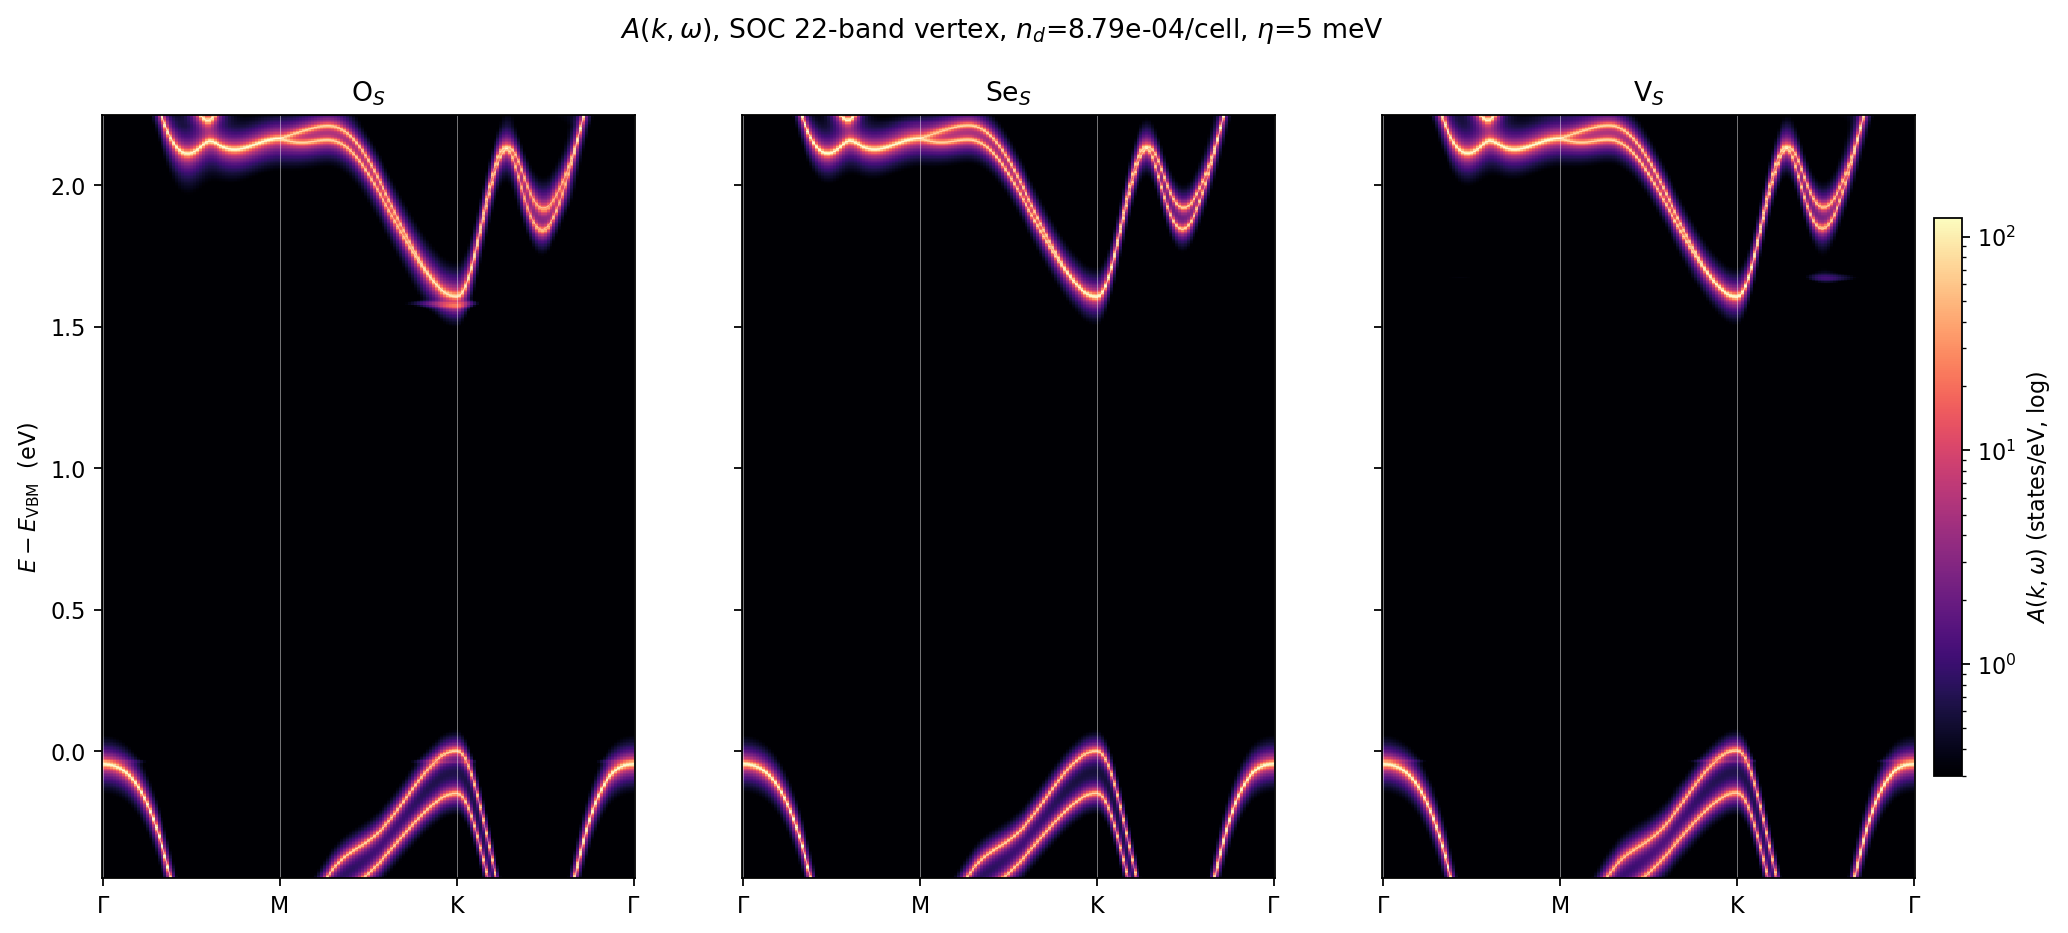
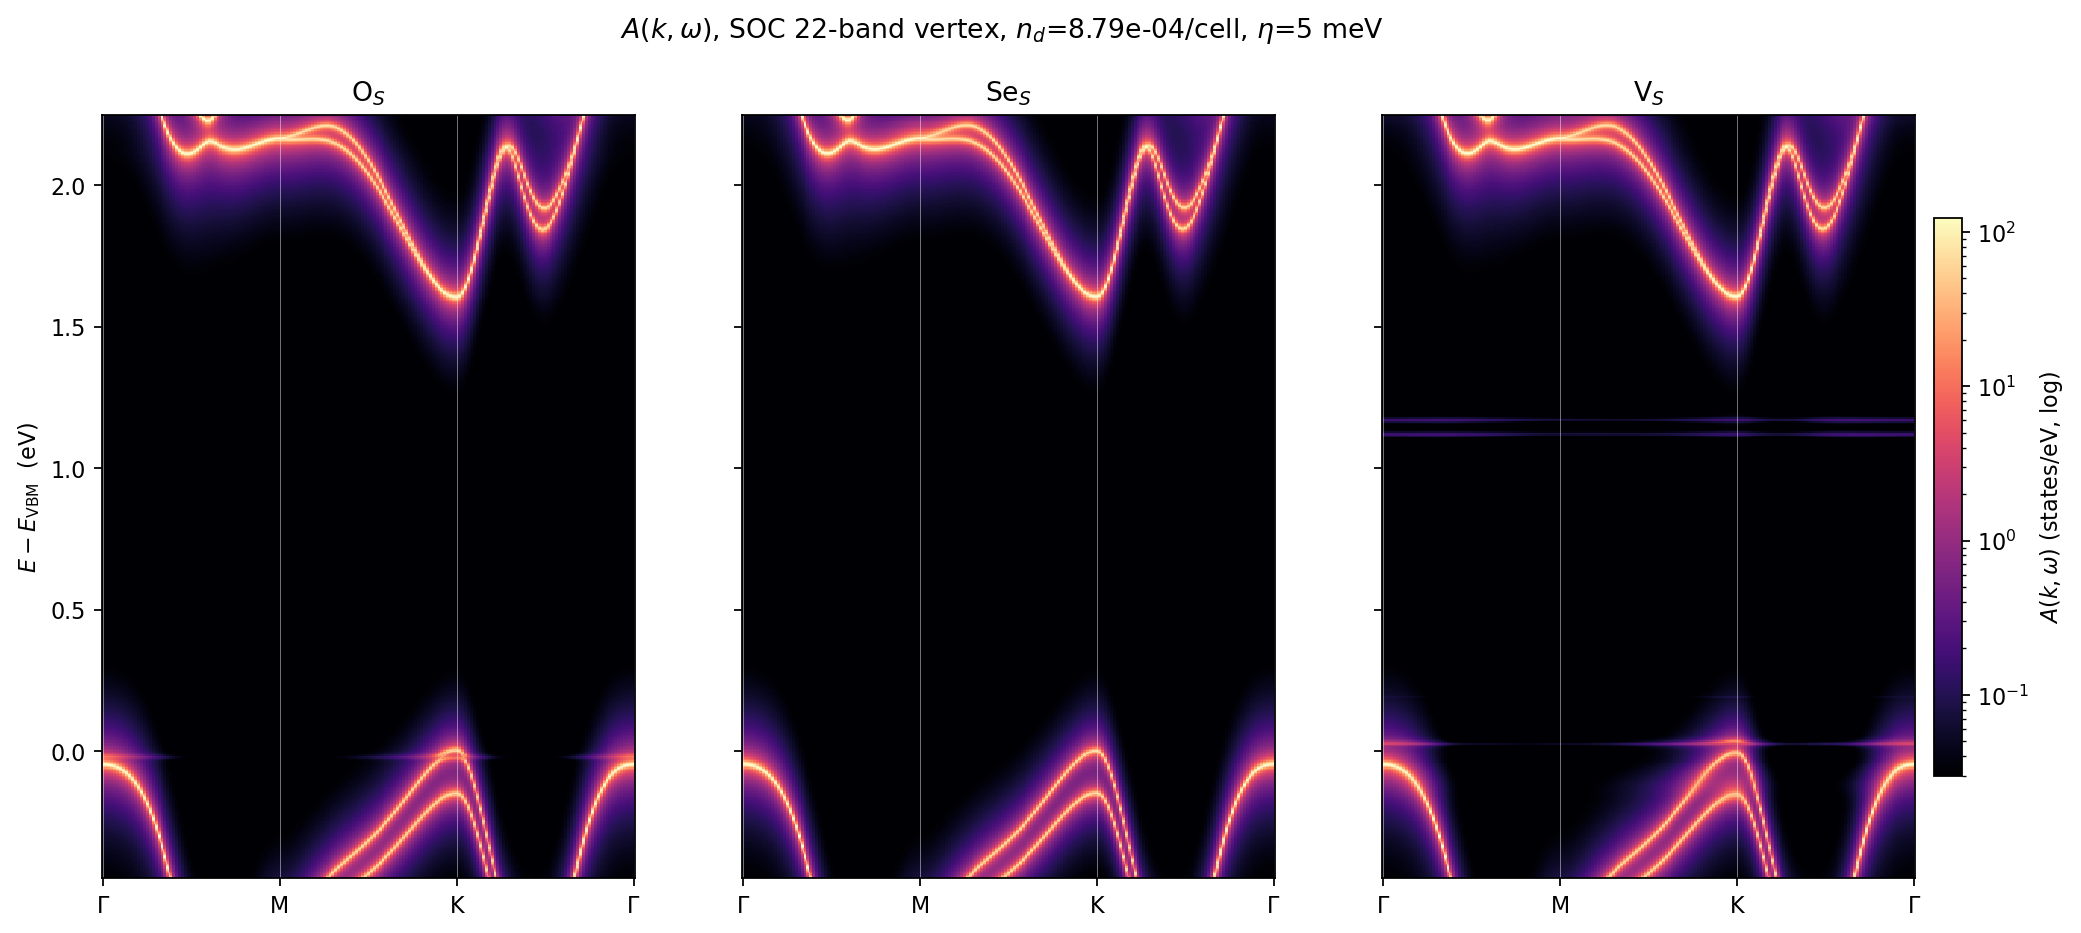
soczoom: 22-orbital vertex frame figures -- V_S deep-gap doublet visible on the full path; remove the 10-orbital caveat; record the u.mat orientation trap and the fast-path gates

diff --git a/docs/pages/soc-zoom.html b/docs/pages/soc-zoom.html
@@ -11,12 +11,13 @@
 <section id="contents"><h2>Contents</h2><div class="toc"><a href="#sec-0">0. 摘要</a><a href="#sec-1">1. 图</a><a href="#sec-2">2. 平带探测器读数(局域缺陷特征,$E-E_\mathrm{VBM}$/eV)</a><a href="#sec-3">3. 计算路径(本批)</a><a href="#sec-4">4. 超胞真值闸门:陪集 DOS 对账(已完成)</a><a href="#sec-5">5. 待办</a></div></section>
 
 <section id="sec-0"><h2>0. 摘要</h2>
-<p>首批<strong>含自旋轨道耦合</strong>的电子-缺陷谱函数 $A(k,\omega)$:MoS$_2$ 单层,O$_\mathrm{S}$ 与 V$_\mathrm{S}$(弛豫几何),12×12 粗网格、10 旋量带活性流形(带 25–34:1 对 VB + 4 对 CB), $n_d = 10^{12}\,\mathrm{cm^{-2}}$、$\eta=5$ meV、KZOOM 路径($K-0.3\,\overline{\Gamma K} \to K+0.45\,\overline{KM}$,721 点)、$N_f=1200$。CBM 窗直接呈现<strong>传导带 SOC 双线</strong> (K 点劈裂 3.0 meV,沿 $K\to M$ 张开);VBM 窗呈现 <strong>149 meV 的 K 点价带自旋劈裂</strong>与 其间的缺陷平带多重态。Se$_\mathrm{S}$ 链完成后补齐三缺陷版本。</p>
+<p><strong>含自旋轨道耦合</strong>的电子-缺陷谱函数 $A(k,\omega)$:MoS$_2$ 单层,O$_\mathrm{S}$ / Se$_\mathrm{S}$ / V$_\mathrm{S}$(弛豫几何)三缺陷,12×12 粗网格 × 22 旋量带链 (带 13–34)+ <strong>22 轨道 Wannier 顶点帧</strong>(同一 wannier 化,无 disentanglement), $n_d = 10^{12}\,\mathrm{cm^{-2}}$、$\eta=5$ meV、KZOOM 路径($K-0.3\,\overline{\Gamma K} \to K+0.45\,\overline{KM}$,721 点)、$N_f=1200$。CBM 窗呈现<strong>传导带 SOC 双线</strong> (K 点劈裂 3.0 meV,沿 $K\to M$ 张开);VBM 窗呈现 <strong>149 meV 的 K 点价带自旋劈裂</strong>与 其间的缺陷平带多重态;全路径窗中 V$_\mathrm{S}$ 的深间隙 S-p 双重态(+1.12/+1.17) 横贯显形。谱函数由快速路线(顶点因子化 + 宿主 $G_0$ 谱分箱,<code>kpath_fast.py</code>)产出: 9 窗全套 ~30 分钟,门内验证因子化精确(1e-15)、分箱中隙 3e-5 / 带边 7e-4。</p>
 </section>
 <section id="sec-1"><h2>1. 图</h2>
-<p><strong>全路径总览($\Gamma$–M–K–$\Gamma$,全能窗;2026-08-12)—— ⚠ 下图为 10 轨道(Mo-d)Wannier 框架:V$_\mathrm{S}$ 的深间隙 S-p 双重态 (+1.12/+1.17,见 §4b DOS)在该子空间</strong>不可表示<strong>,故间隙内缺失;带边结构可靠。 22 轨道版(含 S-p)在制,完成后替换:</strong></p>
+<p><strong>全路径总览($\Gamma$–M–K–$\Gamma$,全能窗;2026-08-12,22 轨道 Wannier 框架 [带 13–34,无 disentanglement])。V$_\mathrm{S}$ 面板中 </strong>+1.12/+1.17 eV 的深间隙 S-p 双重态<strong>横贯全路径显形(与 §4b 的稀释 DOS 能级一致;$T(\omega)$ 在两能级处 $\max|T|$ 增强 ×200),而 O$_\mathrm{S}$/Se$_\mathrm{S}$ 间隙干净——三缺陷对照即 物理判据。色标下限 0.03:$n_d=8.8\times10^{-4}$/cell 的孤立缺陷平带谱权重本就小 ($\max_k A \approx 0.2$),这是稀释极限的诚实亮度:</strong></p>
 <p><img src="../assets/kfull_soc22.png" alt="SOC22 full path" style="max-width:100%;height:auto;display:block;margin:1.2rem auto;border:1px solid #d0d7de;border-radius:6px"></p>
-<p><strong>三缺陷 22 带 K 谷 zoom(144k 链 + 10-of-22 带窗投影;Se$_\mathrm{S}$ 谱函数首秀):</strong></p>
+<blockquote><p>工序注记:此前 10 轨道版缺失该双重态有<strong>两</strong>个独立原因——Mo-d 子空间不可表示性, 以及 chk→u.mat 转换器写出了等效转置的 $U$(酉性检验对此免疫)。后者由 wannier 化恒等式 $U^\dagger\,\mathrm{diag}(\varepsilon_k)\,U = H_W(k)$ 判定并修复 (正确取向 1.5e-5,错误取向 O(4 eV);工具已入 qe-edt <code>post/chk2umat.py</code>)。</p></blockquote>
+<p><strong>三缺陷 22 带 K 谷 zoom(144k 链 + 22 轨道帧,同一 wannier 化):</strong></p>
 <p><img src="../assets/kzoom_soc22_cbm.png" alt="SOC22 CBM zoom" style="max-width:100%;height:auto;display:block;margin:1.2rem auto;border:1px solid #d0d7de;border-radius:6px"></p>
 <p><img src="../assets/kzoom_soc22_vbm.png" alt="SOC22 VBM zoom" style="max-width:100%;height:auto;display:block;margin:1.2rem auto;border:1px solid #d0d7de;border-radius:6px"></p>
 <p>首批 10 带版(O$_\mathrm{S}$+V$_\mathrm{S}$)存档:</p>

diff --git a/content/soczoom.md b/content/soczoom.md
@@ -2,23 +2,33 @@
 
 ## 0. 摘要
 
-首批**含自旋轨道耦合**的电子-缺陷谱函数 $A(k,\omega)$:MoS$_2$ 单层,O$_\mathrm{S}$ 与
-V$_\mathrm{S}$(弛豫几何),12×12 粗网格、10 旋量带活性流形(带 25–34:1 对 VB + 4 对 CB),
+**含自旋轨道耦合**的电子-缺陷谱函数 $A(k,\omega)$:MoS$_2$ 单层,O$_\mathrm{S}$ /
+Se$_\mathrm{S}$ / V$_\mathrm{S}$(弛豫几何)三缺陷,12×12 粗网格 × 22 旋量带链
+(带 13–34)+ **22 轨道 Wannier 顶点帧**(同一 wannier 化,无 disentanglement),
 $n_d = 10^{12}\,\mathrm{cm^{-2}}$、$\eta=5$ meV、KZOOM 路径($K-0.3\,\overline{\Gamma K}
-\to K+0.45\,\overline{KM}$,721 点)、$N_f=1200$。CBM 窗直接呈现**传导带 SOC 双线**
+\to K+0.45\,\overline{KM}$,721 点)、$N_f=1200$。CBM 窗呈现**传导带 SOC 双线**
 (K 点劈裂 3.0 meV,沿 $K\to M$ 张开);VBM 窗呈现 **149 meV 的 K 点价带自旋劈裂**与
-其间的缺陷平带多重态。Se$_\mathrm{S}$ 链完成后补齐三缺陷版本。
+其间的缺陷平带多重态;全路径窗中 V$_\mathrm{S}$ 的深间隙 S-p 双重态(+1.12/+1.17)
+横贯显形。谱函数由快速路线(顶点因子化 + 宿主 $G_0$ 谱分箱,`kpath_fast.py`)产出:
+9 窗全套 ~30 分钟,门内验证因子化精确(1e-15)、分箱中隙 3e-5 / 带边 7e-4。
 
 ## 1. 图
 
-**全路径总览($\Gamma$–M–K–$\Gamma$,全能窗;2026-08-12)——
-⚠ 下图为 10 轨道(Mo-d)Wannier 框架:V$_\mathrm{S}$ 的深间隙 S-p 双重态
-(+1.12/+1.17,见 §4b DOS)在该子空间**不可表示**,故间隙内缺失;带边结构可靠。
-22 轨道版(含 S-p)在制,完成后替换:**
+**全路径总览($\Gamma$–M–K–$\Gamma$,全能窗;2026-08-12,22 轨道 Wannier 框架
+[带 13–34,无 disentanglement])。V$_\mathrm{S}$ 面板中 **+1.12/+1.17 eV 的深间隙
+S-p 双重态**横贯全路径显形(与 §4b 的稀释 DOS 能级一致;$T(\omega)$ 在两能级处
+$\max|T|$ 增强 ×200),而 O$_\mathrm{S}$/Se$_\mathrm{S}$ 间隙干净——三缺陷对照即
+物理判据。色标下限 0.03:$n_d=8.8\times10^{-4}$/cell 的孤立缺陷平带谱权重本就小
+($\max_k A \approx 0.2$),这是稀释极限的诚实亮度:**
 
 ![SOC22 full path](../assets/kfull_soc22.png)
 
-**三缺陷 22 带 K 谷 zoom(144k 链 + 10-of-22 带窗投影;Se$_\mathrm{S}$ 谱函数首秀):**
+> 工序注记:此前 10 轨道版缺失该双重态有**两**个独立原因——Mo-d 子空间不可表示性,
+> 以及 chk→u.mat 转换器写出了等效转置的 $U$(酉性检验对此免疫)。后者由
+> wannier 化恒等式 $U^\dagger\,\mathrm{diag}(\varepsilon_k)\,U = H_W(k)$ 判定并修复
+> (正确取向 1.5e-5,错误取向 O(4 eV);工具已入 qe-edt `post/chk2umat.py`)。
+
+**三缺陷 22 带 K 谷 zoom(144k 链 + 22 轨道帧,同一 wannier 化):**
 
 ![SOC22 CBM zoom](../assets/kzoom_soc22_cbm.png)
 
